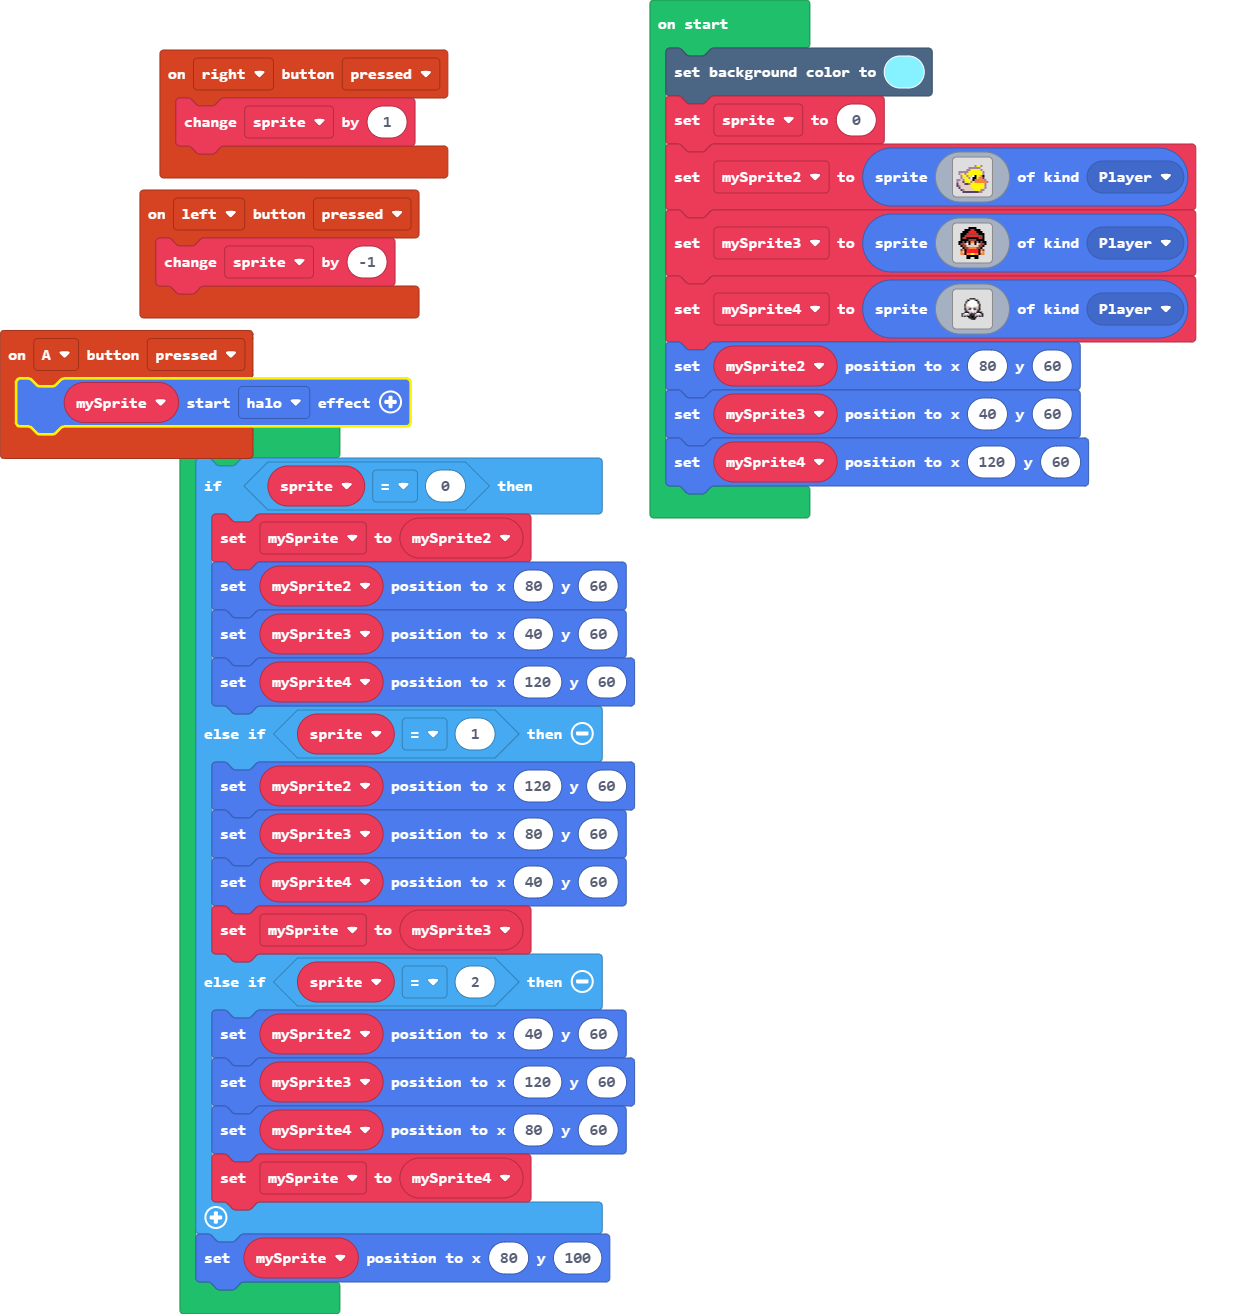
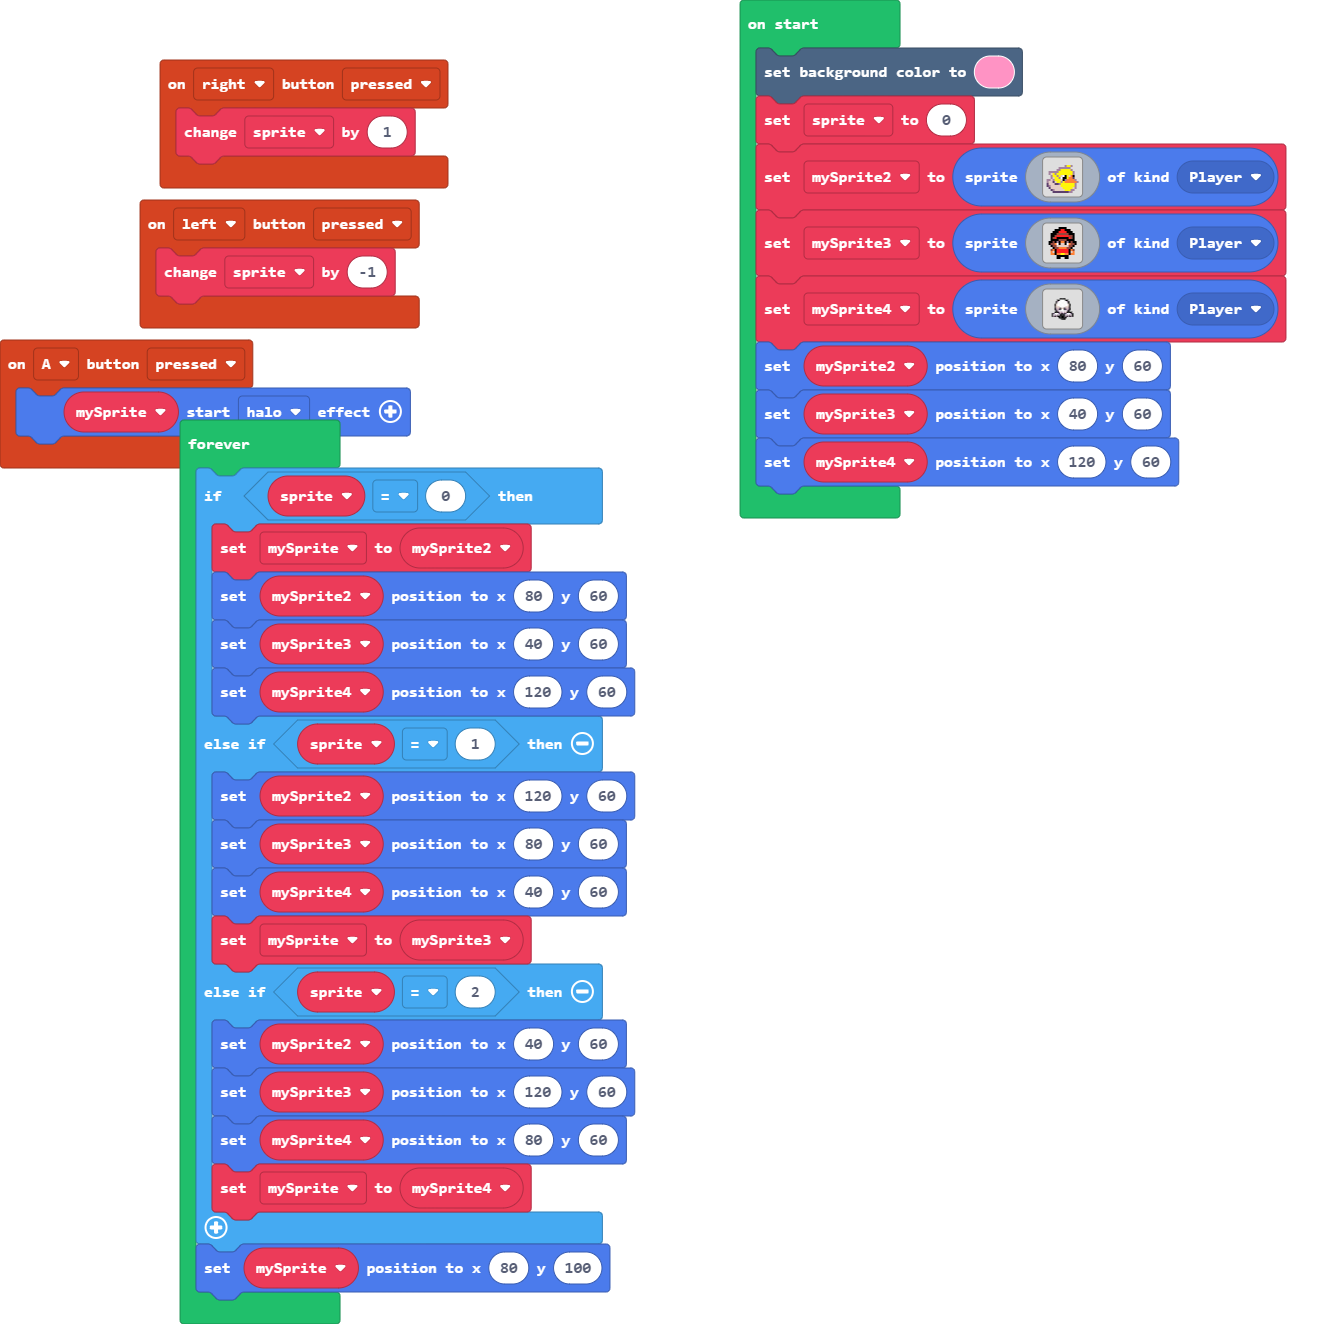
pink

Changed region(s): [[0.0, 0.0, 0.9688, 1.0]]

diff --git a/images.g.ts b/images.g.ts
@@ -22,6 +22,25 @@ namespace myImages {
 . . . . . . . . . . . . . . . . 
 . . . . . . . . . . . . . . . . 
 `;
+            case "image2":
+            case "myImage0":return img`
+. . . . . . . . . . . . . . . . 
+. . . . . . . . . . . . . . . . 
+. . . . . . . . . . . . . . . . 
+. . . . . . . . . . . . . . . . 
+. . . . . . . . . . . . . . . . 
+. . . . . . . . . . . . . . . . 
+. . . . . . . . . . . . . . . . 
+. . . . . . . . . . . . . . . . 
+. . . . . . . . . . . . . . . . 
+. . . . . . . . . . . . . . . . 
+. . . . . . . . . . . . . . . . 
+. . . . . . . . . . . . . . . . 
+. . . . . . . . . . . . . . . . 
+. . . . . . . . . . . . . . . . 
+. . . . . . . . . . . . . . . . 
+. . . . . . . . . . . . . . . . 
+`;
         }
         return null;
     })

diff --git a/main.ts b/main.ts
@@ -8,7 +8,7 @@ controller.right.onEvent(ControllerButtonEvent.Pressed, function () {
     sprite += 1
 })
 let mySprite: Sprite = null
-scene.setBackgroundColor(9)
+scene.setBackgroundColor(3)
 let sprite = 0
 let mySprite2 = sprites.create(img`
     . . . . . . . . . . . . . . . . 
